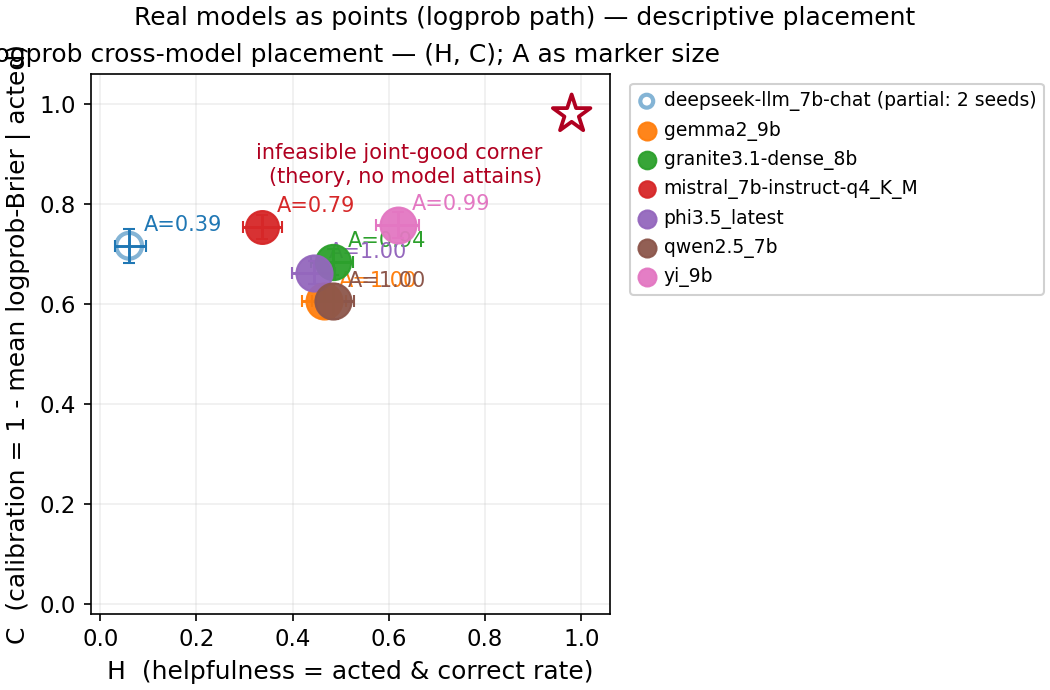
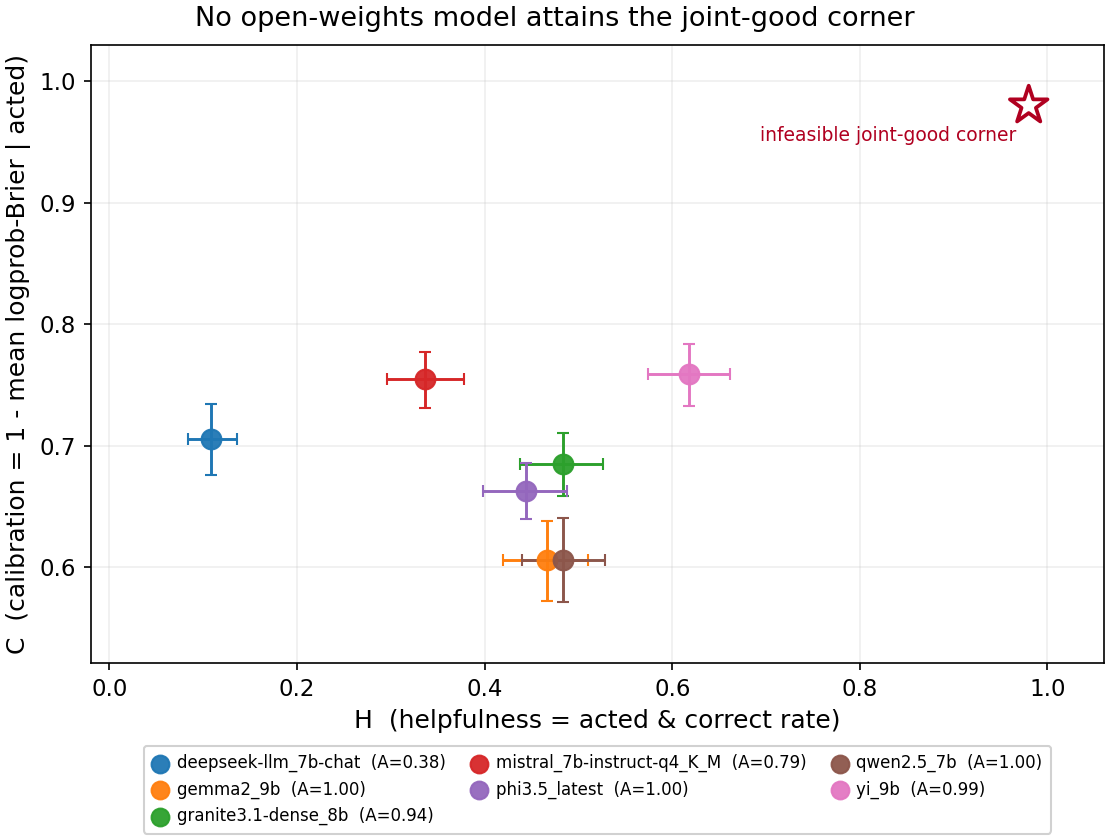
L.5(figure-redesign): single takeaway title, A into legend, autoscale y, legend below
Six fixes from post-render visual inspection (L80): (1) one short
takeaway-style title; (2) per-point A= labels removed, folded into
legend entries; (3) marker-size encoding dropped (non-discriminating);
(4) y-axis autoscaled to data range; (5) corner-star label placed
adjacent to the star; (6) legend moved below the panel, figure width
reduced, eliminating right-column empty space. Existing invariant
tests (no-burned-caption, theory-corner, no-unjustified-arrow) all
remain green; visual inspection of rendered PNG performed before
commit (L80 discipline).

diff --git a/scripts/plot_model_points.py b/scripts/plot_model_points.py
@@ -287,12 +287,13 @@ def _annotate_theory_geometry(ax) -> None:
 
     Descriptive only: a single marker at the (high-H, high-C) joint-good
     corner (A would also have to be high there) and a single concise text
-    label calling it the infeasible joint-good corner of the trilemma. The
-    "theory reference, not data" qualifier lives in the LaTeX caption, not
-    on the figure. No directional arrow is drawn: the trilemma is a
-    non-attainability claim at a point, not a directional prediction, so a
-    slope label ("predicted trade-off direction") would over-claim. Artists
-    carry stable gids so tests can assert presence without pixel inspection.
+    label, placed DIRECTLY adjacent to the star so it visually labels the
+    star and cannot be read as a phantom data point. The "theory reference,
+    not data" qualifier lives in the LaTeX caption, not on the figure. No
+    directional arrow is drawn: the trilemma is a non-attainability claim
+    at a point, not a directional prediction, so a slope label
+    ("predicted trade-off direction") would over-claim. Artists carry
+    stable gids so tests can assert presence without pixel inspection.
     """
     # Joint-good corner: top-right of the (H, C) plane. A would also have to
     # be ~1 there simultaneously — that triple is the trilemma's empty
@@ -304,13 +305,12 @@ def _annotate_theory_geometry(ax) -> None:
         zorder=6,
     )
     star.set_gid("theory-corner")
-    # ONE concise consolidated label near the corner. The redundant
-    # "theory reference, not data" qualifier has been moved to the LaTeX
-    # caption to prevent text-overlap mashing seen at small fontsize.
+    # Label placed RIGHT next to the star (small pixel offset, no arrow),
+    # so it reads as labeling the star rather than as a phantom data point.
     lbl = ax.annotate(
-        "infeasible joint-good corner\n(theory, no model attains)",
-        xy=corner, xytext=(-14, -14), textcoords="offset points",
-        fontsize=10, ha="right", va="top", color="#b00020", zorder=6,
+        "infeasible joint-good corner",
+        xy=corner, xytext=(-6, -10), textcoords="offset points",
+        fontsize=9, ha="right", va="top", color="#b00020", zorder=6,
         annotation_clip=False,
     )
     lbl.set_gid("theory-corner")
@@ -344,14 +344,27 @@ def build_logprob_figure(
     }
     partial_models = [m for m in model_ids if coords[m]["partial"]]
 
-    # L.5 figure design tweaks for better ink-to-signal ratio:
-    #  - smaller figsize so the figure renders compactly in a one-column
-    #    manuscript layout (was 7.6x5.6 -> 7.0x4.6);
-    #  - larger axis/tick/label fonts (~12pt) for readability at print size;
-    #  - smaller legend markers (markerscale=0.5) so the legend doesn't
-    #    visually overlap data points the way the prior 1.0-scale legend did;
-    #  - legend positioned outside the axes to free the data area.
-    fig, ax = plt.subplots(1, 1, figsize=(7.0, 4.6), constrained_layout=True)
+    # L.5 figure-redesign (post-visual-inspection per L80). Six fixes:
+    #  (1) single takeaway-style title via fig.suptitle, no secondary
+    #      descriptive title (the prior stacked-titles caused left clipping);
+    #  (2) per-point "A=..." text annotations DROPPED — A is folded into the
+    #      legend label instead, eliminating on-panel text overlap;
+    #  (3) marker-size A-encoding DROPPED (5/7 models pinned ~1.0 so the
+    #      channel did not discriminate); uniform size for complete models,
+    #      hollow/faded for partial models keeps the partial-flag visible;
+    #  (4) y-axis autoscaled to actual data range (data clusters in
+    #      C in [0.4, 0.8]; prior 0..1 wasted ~40% empty space);
+    #  (5) corner-star label placed adjacent to the star (see
+    #      _annotate_theory_geometry, small offset, no phantom-point read);
+    #  (6) legend moved BELOW the panel as a horizontal strip; figure WIDTH
+    #      reduced so there is no right-side empty column.
+    fig, ax = plt.subplots(1, 1, figsize=(7.4, 5.6), constrained_layout=True)
+
+    # Uniform marker size for all models (was: size = 60 + 240 * A).
+    _UNIFORM_S = 90
+
+    # Track C-range across complete models for y-axis autoscale (fix 4).
+    c_values: list[float] = []
 
     for mid in model_ids:
         c = coords[mid]
@@ -360,68 +373,83 @@ def build_logprob_figure(
         if c["H"] != c["H"] or c["C"] != c["C"]:  # nan guard
             continue
         a_val = c["A"] if c["A"] == c["A"] else 0.0
-        size = 60 + 240 * a_val  # A encoded as marker size (pinned-axis cue)
         h_err = [[c["H"] - c["H_ci"][0]], [c["H_ci"][1] - c["H"]]]
         c_err = [[c["C"] - c["C_ci"][0]], [c["C_ci"][1] - c["C"]]]
-        label = mid
+        # Fold A into the legend label (fix 2): "<model>  (A=0.79)" or
+        # "<model> (partial: N seeds; A=...)" for partial models.
         if is_partial:
-            label = f"{mid} (partial: {c['n_seeds']} seeds)"
+            label = f"{mid} (partial: {c['n_seeds']} seeds; A={a_val:.2f})"
+        else:
+            label = f"{mid}  (A={a_val:.2f})"
         ax.errorbar(
             c["H"], c["C"], xerr=h_err, yerr=c_err, fmt="o",
             ms=0, ecolor=color, elinewidth=1.4, capsize=3, zorder=4,
         )
         ax.scatter(
-            [c["H"]], [c["C"]], s=size,
+            [c["H"]], [c["C"]], s=_UNIFORM_S,
             facecolors="none" if is_partial else color,
             edgecolors=color,
             linewidths=2.0 if is_partial else 1.0,
             alpha=0.55 if is_partial else 0.95,
             label=label, zorder=5,
         )
-        ax.annotate(
-            f"A={a_val:.2f}", (c["H"], c["C"]),
-            textcoords="offset points", xytext=(7, 7), fontsize=10,
-            color=color,
-        )
+        # NOTE: per-point "A=..." text annotation REMOVED (fix 2).
+
+        # Track C for y-axis autoscale (include error-bar extent so CIs fit).
+        c_values.append(c["C"])
+        c_values.append(c["C_ci"][0])
+        c_values.append(c["C_ci"][1])
 
     _annotate_theory_geometry(ax)
 
+    # x-axis kept full [0, 1] so the "no model at H~1" takeaway has the full
+    # range visible (and the corner star at (0.98, 0.98) is in-frame).
     ax.set_xlim(-0.02, 1.06)
-    ax.set_ylim(-0.02, 1.06)
+    # y-axis autoscaled to data range with a small margin (fix 4). Always
+    # include the corner star (~0.98) so the theory reference stays visible.
+    if c_values:
+        c_lo = min(c_values + [0.98]) - 0.05
+        c_hi = max(c_values + [0.98]) + 0.05
+        # Guard against pathological tight ranges.
+        if c_hi - c_lo < 0.10:
+            mid = 0.5 * (c_lo + c_hi)
+            c_lo, c_hi = mid - 0.10, mid + 0.10
+        ax.set_ylim(c_lo, c_hi)
+    else:
+        ax.set_ylim(-0.02, 1.06)
     ax.set_xlabel(
         "H  (helpfulness = acted & correct rate)", fontsize=12,
     )
     ax.set_ylabel(
         "C  (calibration = 1 - mean logprob-Brier | acted)", fontsize=12,
     )
-    ax.set_title(
-        "Logprob cross-model placement — (H, C); A as marker size",
-        fontsize=12,
-    )
+    # Per-panel descriptive title REMOVED (fix 1): only the takeaway
+    # suptitle is drawn so the two-titles-stacked clipping cannot recur.
     ax.tick_params(axis="both", labelsize=11)
     ax.grid(True, alpha=0.2)
     if model_ids:
-        # Smaller legend markers + outside-axes placement so the legend
-        # doesn't overlap data points / theory-corner star. markerscale=0.5
-        # shrinks the A-encoded marker glyphs in the legend (data still
-        # sized by A on the axes). bbox_to_anchor=(1.02, 1) puts the legend
-        # just outside the right axis spine (constrained_layout absorbs it).
+        # Legend BELOW the panel as a horizontal strip (fix 6). ncol=3
+        # accommodates the long "mistral_7b-instruct-q4_K_M  (A=0.79)" entry
+        # without left/right clipping at the chosen figsize.
+        n_models = len(model_ids)
+        ncol = min(n_models, 3)
         ax.legend(
-            fontsize=9, loc="upper left",
-            bbox_to_anchor=(1.02, 1.0),
-            markerscale=0.5, handlelength=1.0,
-            handletextpad=0.4, borderpad=0.4,
+            fontsize=8, loc="upper center",
+            bbox_to_anchor=(0.5, -0.12), ncol=ncol,
+            markerscale=0.9, handlelength=1.0,
+            handletextpad=0.5, borderpad=0.5,
+            columnspacing=1.5,
             framealpha=0.9,
         )
 
     # Caption travels with the result (report / LaTeX), NOT burned in.
     caption = HONEST_CAPTION_LOGPROB
-    # Short descriptive title only. The full "not a proof / impossibility /
-    # region" caveats are NOT drawn on the figure — they live verbatim in
-    # the analysis report and the LaTeX caption (HONEST_CAPTION_LOGPROB).
+    # SINGLE takeaway-style suptitle (fix 1). The descriptive details and
+    # all caveats live verbatim in the LaTeX caption (HONEST_CAPTION_LOGPROB)
+    # and the §exp-models paragraph.
     fig.suptitle(
-        "Real models as points (logprob path) — descriptive placement",
-        fontsize=12,
+        "No open-weights model attains the joint-good corner",
+        fontsize=13,
     )
     # constrained_layout handles padding; no tight_layout call needed.
 